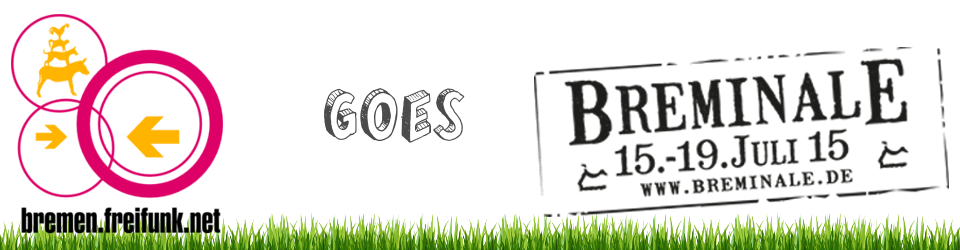
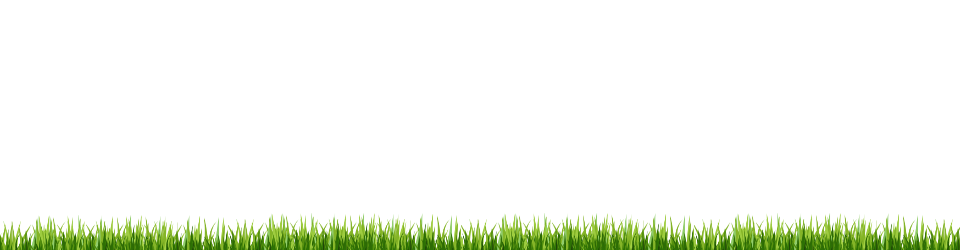
Updates

diff --git a/app.js b/app.js
@@ -1,1 +1,1 @@
-"use strict";angular.module("breminaleApp",["ngCookies","ngResource","ngSanitize","ui.router","gettext"]).config(["$urlRouterProvider","$locationProvider",function($urlRouterProvider,$locationProvider){$urlRouterProvider.otherwise("/"),$locationProvider.html5Mode(!0).hashPrefix("!")}]).run(function(gettextCatalog){gettextCatalog.currentLanguage="de",gettextCatalog.debug=!0}),angular.module("breminaleApp").config(["$stateProvider","$urlRouterProvider",function($stateProvider,$urlRouterProvider){$stateProvider.state("index",{url:"/",templateUrl:"app/main/main.html"}).state("about",{url:"/about",templateUrl:"app/main/about.html"})}]),angular.module("breminaleApp").config(["$stateProvider","$urlRouterProvider",function($stateProvider,$urlRouterProvider){$stateProvider.state("feed",{url:"/feed",templateUrl:"app/feed/feed.html",controller:"FeedCtrl"})}]),angular.module("breminaleApp").controller("FeedCtrl",["$scope","$http",function($scope,$http){$scope._filter="",$scope.refresh=function(){$scope.loading=!0,$http.get("/data.php").success(function(result){$scope.list=result.feed,$scope.lastUpdate=result.lastUpdate,$scope.Iterator=result.Iterator,$scope.loading=!1})},$scope.refresh(),$scope.setFilter=function(args){$scope._filter=args}}]),angular.module("breminaleApp").controller("NavbarCtrl",["$scope",function($scope){$scope.toggleMenu=function(){$("#navbarSidebar").sidebar("toggle")}}]),angular.module("gettext").run(["gettextCatalog",function(gettextCatalog){gettextCatalog.setStrings("de",{Home:"Startseite",Login:"Anmelden","Login not possible":"Anmeldung nicht Möglich",Logout:"Abmelden",Mail:"E-Mail",Password:"Passwort",Test:"Test","sign up":"registrieren"})}]),angular.module("breminaleApp").run(["$templateCache",function($templateCache){$templateCache.put("app/feed/feed.html",'<main class="ui page grid main"><div class=row><div class="column ui segment"><h1 class="ui header">{{\'Feeds\'|translate}}</h1>Filter: &nbsp;<div class="ui basis buttons mini"><div ng-click=setFilter(&quot;&quot;) ng-class="{&quot;primary&quot;:(_filter==&quot;&quot;)}" class="ui button">All</div><div ng-click=setFilter(&quot;twocootstravel&quot;) ng-class="{&quot;primary&quot;:(_filter==&quot;twocootstravel&quot;)}" class="ui button">twocootstravel</div><div ng-click=setFilter(&quot;StateParkSunday&quot;) ng-class="{&quot;primary&quot;:(_filter==&quot;StateParkSunday&quot;)}" class="ui button">StateParkSunday</div></div><div ng-click=refresh() class="ui button mini right"><i class="icon refresh"></i></div></div></div><div class=row><div class="column ui segment"><div class="ui feed"><div ng-repeat="item in list|filter:{hashtags:_filter}" class=event><div class=label><i class="icon newspaper"></i></div><div class=content><div class=date>{{item.created_time|date:\'EEE HH:mm\'}}</div><div class=summary>{{item.message}}</div><div class=meta><div ng-repeat="tag in item.hashtags" ng-click=setFilter(tag) class="ui button mini">{{tag}}</div></div></div></div></div><div ng-class={&quot;active&quot;:loading} class="ui dimmer"></div></div></div><div class=row><div class=column><p>last refresh: {{lastUpdate*1000|date:\'dd.MM.yyyy HH:mm:ss\'}}<br>count of refresh: {{Iterator}}</p></div></div></main>'),$templateCache.put("app/main/about.html",'<main class="ui page grid main"><div class=row><div class="column ui segment"><h1 class="ui header">{{\'About\'|translate}}</h1></div></div><div class=row><div class="column ui segment"><p style=height:1000px>About Text</p></div></div></main>'),$templateCache.put("app/main/main.html",'<main class="ui page grid main"><div class=row><div class="column ui segment"><h1 class="ui header">{{\'Home\'|translate}}</h1></div></div><div class=row><div class="column ui segment"><p style=height:1000px>Home Text</p></div></div></main>'),$templateCache.put("components/navbar/header.html",'<header id=header><img src=assets/header.png class="column ui segment"></header>'),$templateCache.put("components/navbar/navbar.html",'<div class="ui page grid"><div ng-include="\'components/navbar/header.html\'" class=row></div></div><div id=navbar ng-controller=NavbarCtrl class="ui grid"><div class="computer tablet only ui page grid"><div class=row><div class=column><div class="ui menu inverted"><a ui-sref=index ui-sref-active=active class=item><i class="icon home"></i>{{\'Home\'|translate}}</a><a ui-sref=feed ui-sref-active=active class=item><i class="icon home"></i>{{\'Feed\'|translate}}</a><a ui-sref=about ui-sref-active=active class=item><i class="icon mail"></i>{{\'About\'|translate}}</a></div></div></div></div><div class="mobile only ui menu inverted top fixed grid page"><div class="menu open"><a ng-click=toggleMenu() class=item><i class="icon content vertical"></i></a><a class="brand item">breminale.ffhb.de</a></div></div></div><div id=navbarSidebar class="row ui sidebar left vertical inverted menu labeled icon"><a ui-sref=index ui-sref-active=active class=item><i class="icon home"></i>{{\'Home\'|translate}}</a><a ui-sref=feed ui-sref-active=active class=item><i class="icon home"></i>{{\'Feed\'|translate}}</a><a ui-sref=about ui-sref-active=active class=item><i class="icon mail"></i>{{\'About\'|translate}}</a></div>')}]);
+"use strict";angular.module("breminaleApp",["ngCookies","ngResource","ngSanitize","ui.router","gettext"]).config(["$urlRouterProvider","$locationProvider",function($urlRouterProvider,$locationProvider){$urlRouterProvider.otherwise("/"),$locationProvider.html5Mode(!0).hashPrefix("!")}]).run(function(gettextCatalog){gettextCatalog.currentLanguage="de",gettextCatalog.debug=!0}),angular.module("breminaleApp").config(["$stateProvider","$urlRouterProvider",function($stateProvider,$urlRouterProvider){$stateProvider.state("index",{url:"/",templateUrl:"app/main/main.html"}).state("about",{url:"/about",templateUrl:"app/main/about.html"})}]),angular.module("breminaleApp").config(["$stateProvider","$urlRouterProvider",function($stateProvider,$urlRouterProvider){$stateProvider.state("feed",{url:"/feed",templateUrl:"app/feed/feed.html",controller:"FeedCtrl"})}]),angular.module("breminaleApp").controller("FeedCtrl",["$scope","$http",function($scope,$http){$scope._filter="",$scope.refresh=function(){$scope.loading=!0,$http.get("/data.php").success(function(result){$scope.list=result.feed,$scope.lastUpdate=result.lastUpdate,$scope.Iterator=result.Iterator,$scope.loading=!1})},$scope.refresh(),$scope.setFilter=function(args){$scope._filter=args}}]),angular.module("breminaleApp").controller("NavbarCtrl",["$scope",function($scope){$scope.toggleMenu=function(){$("#navbarSidebar").sidebar("toggle")}}]),angular.module("gettext").run(["gettextCatalog",function(gettextCatalog){gettextCatalog.setStrings("de",{Home:"Startseite",Login:"Anmelden","Login not possible":"Anmeldung nicht Möglich",Logout:"Abmelden",Mail:"E-Mail",Password:"Passwort",Test:"Test","sign up":"registrieren"})}]),angular.module("breminaleApp").run(["$templateCache",function($templateCache){$templateCache.put("app/feed/feed.html",'<main class="ui page grid main"><div class=row><div class="column ui segment"><h1 class="ui header">{{\'Feeds\'|translate}}</h1>Filter: &nbsp;<div class="ui basis buttons mini"><div ng-click=setFilter(&quot;&quot;) ng-class="{&quot;primary&quot;:(_filter==&quot;&quot;)}" class="ui button">All</div><div ng-click=setFilter(&quot;twocootstravel&quot;) ng-class="{&quot;primary&quot;:(_filter==&quot;twocootstravel&quot;)}" class="ui button">twocootstravel</div><div ng-click=setFilter(&quot;StateParkSunday&quot;) ng-class="{&quot;primary&quot;:(_filter==&quot;StateParkSunday&quot;)}" class="ui button">StateParkSunday</div></div><div ng-click=refresh() class="ui button mini right"><i class="icon refresh"></i></div></div></div><div class=row><div class="column ui segment"><div class="ui feed"><div ng-repeat="item in list|filter:{hashtags:_filter}" class=event><div class=label><i class="icon newspaper"></i></div><div class=content><div class=date>{{item.created_time|date:\'EEE HH:mm\'}}</div><div class=summary>{{item.message}}</div><div class=meta><div ng-repeat="tag in item.hashtags" ng-click=setFilter(tag) class="ui button mini">{{tag}}</div></div></div></div></div><div ng-class={&quot;active&quot;:loading} class="ui dimmer"></div></div></div><div class=row><div class=column><p>last refresh: {{lastUpdate*1000|date:\'dd.MM.yyyy HH:mm:ss\'}}<br>count of refresh: {{Iterator}}</p></div></div></main>'),$templateCache.put("app/main/about.html",'<main class="ui page grid main"><div class=row><div class="column ui segment"><h1 class="ui header">{{\'About\'|translate}}</h1></div></div><div class=row><div class="column ui segment"><p style=height:1000px>About Text</p></div></div></main>'),$templateCache.put("app/main/main.html",'<main class="ui page grid main"><div class=row><div class="column ui segment"><h1 class="ui header">{{\'Home\'|translate}}</h1></div></div><div class=row><div class="column ui segment"><p style=height:1000px>Home Text</p></div></div></main>'),$templateCache.put("components/navbar/header.html",'<header id=header><img src=assets/logo_ffhb.png class="ffhb"><img src=assets/header_goes.png class="goes computer tablet only"><img src=assets/logo_breminale.png class="breminale"><img src=assets/header.png class="column ui segment"></header>'),$templateCache.put("components/navbar/navbar.html",'<div class="ui page grid"><div ng-include="\'components/navbar/header.html\'" class=row></div></div><div id=navbar ng-controller=NavbarCtrl class="ui grid"><div class="computer tablet only ui page grid"><div class=row><div class=column><div class="ui menu inverted"><a ui-sref=index ui-sref-active=active class=item><i class="icon home"></i>{{\'Home\'|translate}}</a><a ui-sref=feed ui-sref-active=active class=item><i class="icon home"></i>{{\'Feed\'|translate}}</a><a ui-sref=about ui-sref-active=active class=item><i class="icon mail"></i>{{\'About\'|translate}}</a></div></div></div></div><div class="mobile only ui menu inverted top fixed grid page"><div class="menu open"><a ng-click=toggleMenu() class=item><i class="icon content vertical"></i></a><a class="brand item">breminale.ffhb.de</a></div></div></div><div id=navbarSidebar class="row ui sidebar left vertical inverted menu labeled icon"><a ui-sref=index ui-sref-active=active class=item><i class="icon home"></i>{{\'Home\'|translate}}</a><a ui-sref=feed ui-sref-active=active class=item><i class="icon home"></i>{{\'Feed\'|translate}}</a><a ui-sref=about ui-sref-active=active class=item><i class="icon mail"></i>{{\'About\'|translate}}</a></div>')}]);

diff --git a/app.css b/app.css
@@ -1,1 +1,1 @@
-main.ui.grid .row{margin-top:20px;margin-left:3px;margin-right:3px}#navbar .mobile.ui.grid .menu.open{padding:0}header#header{margin-top:45px;margin-bottom:7px}header#header img.segment{width:100%;padding:0}
+main.ui.grid .row{margin-top:20px;margin-left:3px;margin-right:3px}#navbar .mobile.ui.grid .menu.open{padding:0}header#header{position:relative;width:100%;margin-top:45px;margin-bottom:7px}header#header img.segment{position:relative;top:0;width:100%;padding:0;z-index:5}header#header img.breminale,header#header img.ffhb,header#header img.goes{position:absolute;z-index:10;top:14px}header#header img.ffhb{margin-top:1%;left:0;margin-left:2%;width:22%}header#header img.breminale{margin-top:6%;right:0;margin-right:2%;width:30%}header#header img.goes{margin-top:10%;right:47%;width:15%}@media only screen and (max-width:767px){header#header img.breminale{margin-top:2%;width:50%}header#header img.goes{display:none!important}}
